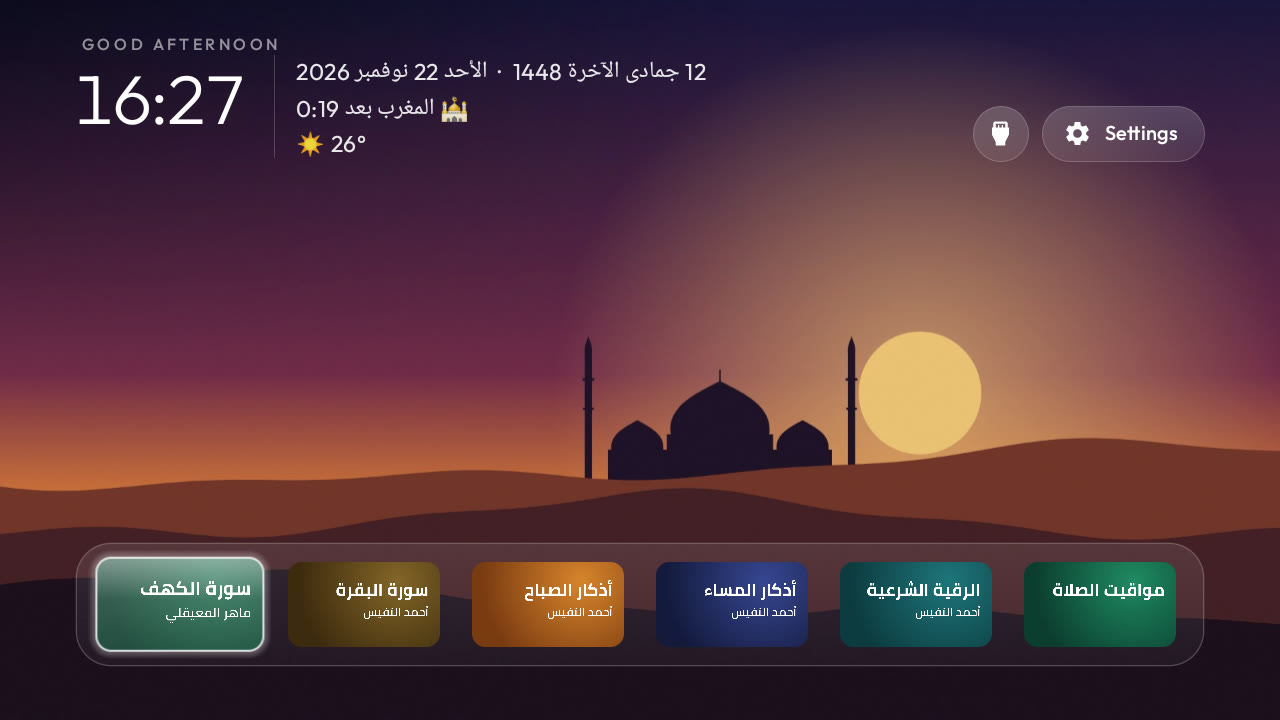
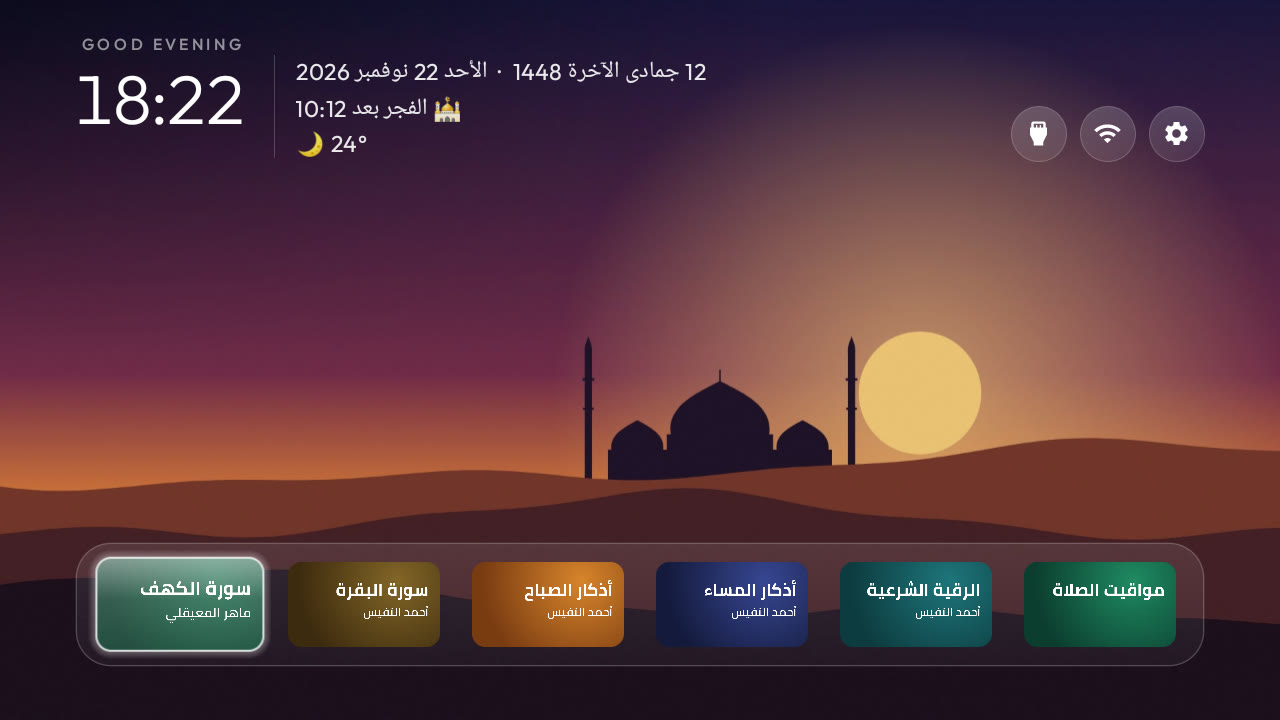
docs: redesign README with current screenshots

diff --git a/README.md b/README.md
@@ -1,111 +1,144 @@
-<div dir="rtl" align="center">
-
-# 📺 Salahi TV
-
-### نضّف تلفزيونك من الإعلانات، وخليه يأذّن ويذكّرك بالصلاة
-
-كلود بيعمل كل حاجة، ويمشّيك خطوة خطوة بكلام بسيط.
-
-![Android TV](https://img.shields.io/badge/Android_TV-✓-3DDC84?style=flat-square&logo=androidtv&logoColor=white)
-![Google TV](https://img.shields.io/badge/Google_TV-✓-4285F4?style=flat-square&logo=googletv&logoColor=white)
-![Claude Code](https://img.shields.io/badge/Claude_Code-ready-D97757?style=flat-square)
-![License](https://img.shields.io/badge/License-MIT-yellow?style=flat-square)
-
-![Salahi TV على تلفزيون حقيقي](docs/home.jpg)
-
-**[⬇ ابدأ دلوقتي، 3 خطوات بس](#start)**
-
-</div>
+<p align="center">
+  <img src="docs/home.jpg" alt="الشاشة الرئيسية في Salahi TV" width="100%">
+</p>
 
 <div dir="rtl">
 
-## هتاخد إيه؟
+<h1 align="center">Salahi TV</h1>
+
+<p align="center">
+  <strong>شاشة رئيسية إسلامية لتلفزيونات Android TV وGoogle TV</strong><br>
+  مواقيت الصلاة والأذان والقرآن والأذكار في مكان واحد، بدون إعلانات.
+</p>
+
+<p align="center">
+  <a href="#features">المميزات</a> ·
+  <a href="#adhan">الأذان والتنبيهات</a> ·
+  <a href="#themes">المظهر</a> ·
+  <a href="#install">التثبيت</a> ·
+  <a href="#faq">الأسئلة الشائعة</a>
+</p>
+
+---
+
+## نظرة عامة
+
+يحوّل Salahi TV تلفزيونك إلى شاشة هادئة تساعدك على متابعة الصلاة والورد اليومي. يعطّل التطبيقات الدعائية دون حذفها، ويضيف شاشة رئيسية بالتاريخ الهجري والميلادي، والصلاة القادمة، ودرجة الحرارة، مع بطاقات للقرآن والأذكار تعمل مباشرة من التلفزيون.
+
+<a name="features"></a>
+## المميزات
 
 <table>
 <tr>
-<td width="33%"><img src="docs/player.jpg" alt="مشغّل القرآن والأذكار"><br><b>📖 القرآن والأذكار</b><br>بيشتغلوا من على التلفزيون، من غير إنترنت ولا إعلانات.</td>
-<td width="33%"><img src="docs/adhan.jpg" alt="شريط الأذان"><br><b>🕌 الأذان</b><br>بيأذّن وقت الصلاة، ولو فيلم شغال بيظهر تنبيه بس.</td>
-<td width="33%"><img src="docs/friday.jpg" alt="تذكير الجمعة"><br><b>🌿 يوم الجمعة</b><br>بيذكّرك بسورة الكهف والصلاة على النبي ﷺ.</td>
+<td width="52%"><img src="docs/player.jpg" alt="مشغّل القرآن والأذكار"></td>
+<td>
+<h3>القرآن والأذكار بضغطة واحدة</h3>
+سورة الكهف، سورة البقرة، أذكار الصباح، أذكار المساء، والرقية الشرعية. اختر البطاقة ويبدأ الصوت مباشرة، دون فتح يوتيوب ودون إعلانات تقطع عليك.
+<br><br>
+<b>مشغّل صوتي سهل الاستخدام:</b> تحكّم بالريموت في التشغيل والإيقاف، وتقديم أو إرجاع المقطع 30 ثانية، مع استكمال الاستماع تلقائيًا من حيث توقفت.
+</td>
+</tr>
+<tr>
+<td><img src="docs/adhan.jpg" alt="تنبيه أذان العشاء"></td>
+<td>
+<h3>الأذان في وقته</h3>
+مواقيت حسب مدينتك وطريقة الحساب المناسبة لبلدك، مع أذان بالصوت الذي تختاره. ولا تقطع شاشة التوقف الأذان أثناء تشغيله.
+</td>
+</tr>
+<tr>
+<td><img src="docs/reminder.jpg" alt="تذكير الصلاة على النبي"></td>
+<td>
+<h3>تذكير لطيف</h3>
+تذكير بالصلاة على النبي ﷺ كل 45 دقيقة، وبسورة الكهف يوم الجمعة، دون الظهور فوق التطبيقات المفتوحة.
+</td>
 </tr>
 </table>
 
-### وكمان
+**وأيضًا:**
 
-- 🧹 **من غير إعلانات:** بيعطّل تطبيقات الشركة اللي بتجمع بياناتك وتعرض إعلانات (**تعطيل مش حذف**، وترجع بأمر واحد)
-- 🗓 **جنب الساعة:** التاريخ الهجري والميلادي، والصلاة الجاية بعد قد إيه، ودرجة الحرارة
-- 📖 **كروت بضغطة واحدة:** سورة الكهف، سورة البقرة، أذكار الصباح، أذكار المساء، والرقية الشرعية. اختار الكارت والصوت يشتغل على طول، من غير ما يفتح يوتيوب ومن غير إعلانات تقطع عليك
-- ▶ **مشغّل صوتي سهل الاستخدام:** تحكّم بالريموت في التشغيل والإيقاف، وتقديم أو إرجاع المقطع 30 ثانية، مع استكمال الاستماع تلقائيًا من حيث توقفت
-- 🔔 **التنبيه على HDMI:** عند دخول وقت الصلاة يظهر تنبيه في أسفل الشاشة مع مطلع الأذان، حتى لا يفوتك الوقت وأنت تستخدم أي جهاز موصّل بالتلفزيون
-- ﷺ **كل 45 دقيقة:** تذكير بالصلاة على النبي، ومش بيظهر فوق التطبيقات
-- 🌙 **شاشة التوقف** ما بتقطعش الأذان
+- **تلفزيون أنظف:** تعطيل تطبيقات الشركة والإعلانات دون حذف أي شيء، مع إمكانية إعادتها.
+- **معلومات يومك أمامك:** التاريخ الهجري والميلادي، والوقت المتبقي للصلاة القادمة، ودرجة الحرارة.
+- **اختصارات واضحة:** أزرار HDMI والواي فاي والإعدادات في أعلى الشاشة.
 
-## الجديد في النسخة دي
+<a name="adhan"></a>
+## الأذان والتنبيهات
 
-| | noor-tv | Salahi TV |
+يتصرف التطبيق حسب ما يظهر على الشاشة وقت الصلاة:
+
+| ما يظهر على الشاشة | التنبيه | صوت الأذان |
 |---|---|---|
-| **القرآن والأذكار** | بيفتحوا يوتيوب | صوت محفوظ على التلفزيون |
-| **جنب الساعة** | الهجري والطقس | الهجري والميلادي والصلاة والحرارة |
-| **الأذان على HDMI** | شريط من غير صوت | تنبيه أسفل الشاشة مع مطلع الأذان |
-| **التذكير** | فوق أي حاجة شغالة | الشاشة الرئيسية وHDMI بس |
-| **شاشة التوقف** | بتقطع الأذان | الأذان بيكمّل |
-| **صفحة الجوال** | مفتوحة من غير باسورد | اتشالت |
-| **الشاشة الرئيسية** | اسم كبير وصف ظاهر نصه | شريط الكروت بس |
+| **الشاشة الرئيسية** | شريط واضح | الأذان كاملًا |
+| **شاشة التوقف** | يستمر الأذان دون انقطاع | الأذان كاملًا |
+| **HDMI أو القنوات** | تنبيه في أسفل الشاشة | مطلع الأذان |
+| **تطبيق آخر** | شريط تنبيه | بدون صوت |
+| **صلاة الفجر** | تنبيه فقط | بدون صوت |
 
-## 🎨 3 أشكال تختار منها
+<a name="themes"></a>
+## المظهر
 
-![الأشكال الثلاثة: الزخرفة، مسجد الليل، أوقات اليوم](docs/themes.jpg)
+<p align="center">
+  <img src="docs/themes.jpg" alt="أشكال Salahi TV: أوقات اليوم والزخرفة ومسجد الليل" width="100%">
+</p>
 
-| الشكل | بيتميز بإيه |
-|---|---|
-| **الزخرفة** | أخضر وذهبي، وأزرار أيقونات دايرية |
-| **مسجد الليل** | سما كحلية وهلال ومسجد، وأخف اختيار |
-| **أوقات اليوم** | مسجد في الصحرا، والخلفية بتتغيّر الصبح والعصر والليل |
+اختر بين **أوقات اليوم** بخلفية تتغير مع الصباح والمساء والليل، أو **الزخرفة** الخضراء والذهبية، أو **مسجد الليل**. ويمكنك أيضًا استخدام صورتك الخاصة.
 
-وتقدر تغيّر الشكل في أي وقت، أو تحط صورتك خلفية.
+<a name="install"></a>
+## التثبيت
 
-## بيشتغل على إيه؟
+**المتطلبات**
 
-✅ أندرويد تي في وجوجل تي في بس (TCL، سوني، شاومي، هايسنس أندرويد، فيليبس أندرويد...)
+- تلفزيون يعمل بنظام Android TV أو Google TV.
+- كمبيوتر Windows أو Mac عليه [Claude Code](https://claude.com/claude-code).
+- اتصال التلفزيون والكمبيوتر بشبكة الواي فاي نفسها.
+- مساحة فارغة تقارب 130 ميجابايت على التلفزيون.
 
-❌ سامسونج وإل جي ما بيشتغلش عليهم، لأن أنظمتهم مش أندرويد
+**الخطوات**
 
-## محتاج إيه؟
+1. افتح Claude Code والصق الأمر التالي:
 
-1. لابتوب (ماك أو ويندوز) عليه [Claude Code](https://claude.com/claude-code)
-2. التلفزيون واللابتوب على **نفس الواي فاي**
-3. حوالي **130 ميجا** فاضية على التلفزيون للقرآن والأذكار
+   ```text
+   نضّف تلفزيوني بـ github.com/Mahmoodsalah/Salahi-tv واقرا skills/salahi-tv/SKILL.md وامشِ عليه خطوة خطوة
+   ```
 
-<a name="start"></a>
-## 🚀 الطريقة: 3 خطوات بس
-
-**1. افتح Claude Code والصق السطر ده:**
-
-```
-نضّف تلفزيوني بـ github.com/Mahmoodsalah/Salahi-tv واقرا skills/salahi-tv/SKILL.md وامشِ عليه خطوة خطوة
-```
-
-**2. اعمل اللي هيقولهولك.** خطوة واحدة كل مرة. الحاجة الوحيدة اللي هتعملها بإيدك إنك تدوس 7 مرات في إعدادات التلفزيون عشان تفعّل «خيارات المطوّر»، وكلود هيقولك فين بالظبط.
-
-**3. خلاص.** كلود هيدوّر على تلفزيونك بنفسه، ويديك تقرير بكل حاجة عطّلها.
+2. فعّل **USB debugging** من خيارات المطوّر عندما يطلب منك ذلك.
+3. وافق على كل خطوة قبل تنفيذها، واختر مدينتك والمؤذن وشكل الشاشة.
 
 <details>
-<summary>عايزه كـ plugin في Claude Code؟</summary>
+<summary>التثبيت كإضافة في Claude Code</summary>
 
-```
+```text
 /plugin marketplace add Mahmoodsalah/Salahi-tv
 /plugin install salahi-tv@salahi-tv
 ```
 
-بعدها قول لكلود: «نضّف تلفزيوني».
 </details>
 
-## ⚠ اقرا قبل ما تبدأ
+<a name="faq"></a>
+## الأسئلة الشائعة
 
-- **تعطيل مش حذف.** فيه ناس بوّظت تلفزيوناتها لما حذفت تطبيقات النظام. هنا مفيش حاجة بتتحذف.
-- قبل أي تغيير بتتحفظ نسخة احتياطية على جهازك، ومعاها أمر بيرجّع التطبيقات والشاشة الأصلية.
-- كلود بيستأذنك قبل كل دفعة تعطيل.
-- ملفات الصوت مش موجودة في الريبو. بتتحمّل على جهازك وقت التركيب لاستخدامك الشخصي.
-- الاستخدام على مسؤوليتك.
+<details>
+<summary>هل يحذف تطبيقات من التلفزيون؟</summary>
+
+لا. يتم تعطيل التطبيقات فقط، وتُحفظ نسخة احتياطية على جهازك قبل أي تغيير.
+</details>
+
+<details>
+<summary>كيف أرجع التلفزيون كما كان؟</summary>
+
+فعّل USB debugging، ثم شغّل ملف <code>restore.sh</code> من مجلد النسخة الاحتياطية لإعادة التطبيقات المعطلة والشاشة الأصلية.
+</details>
+
+<details>
+<summary>هل يعمل على Samsung أو LG؟</summary>
+
+لا. يعمل على أجهزة Android TV وGoogle TV فقط.
+</details>
+
+<details>
+<summary>هل ملفات الصوت موجودة في المستودع؟</summary>
+
+لا. يتم تنزيلها على جهازك أثناء التثبيت للاستخدام الشخصي.
+</details>
 
 ## شكر
 
